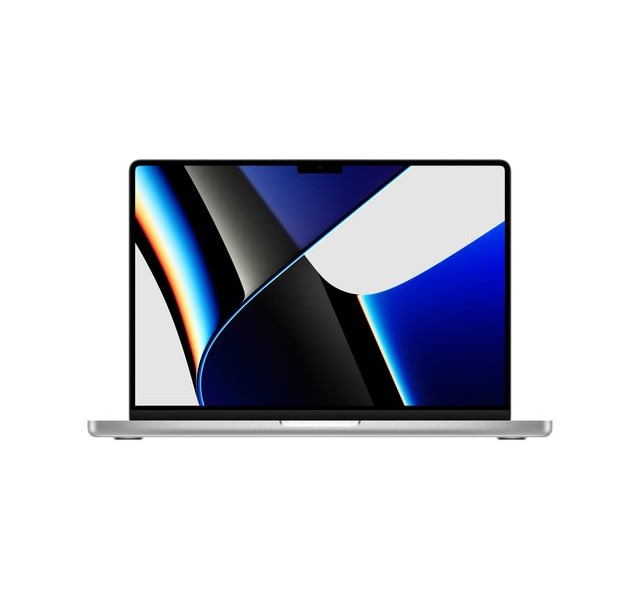
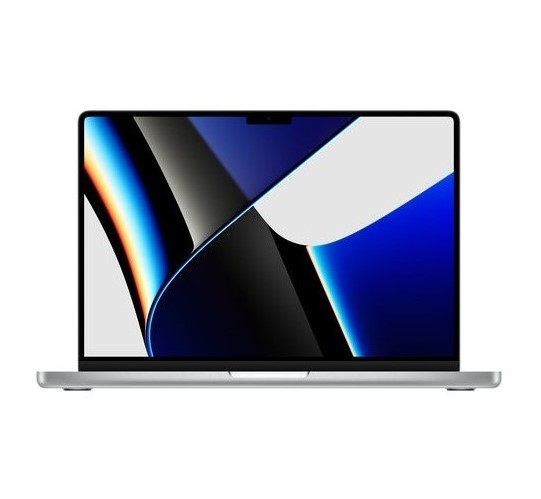
Entrega Final

Changed region(s): [[0.0591, 0.2104, 0.9464, 0.7816], [0.6211, 0.4509, 0.6802, 0.481], [0.5028, 0.4509, 0.5323, 0.481]]

diff --git a/pages/tienda.html b/pages/tienda.html
@@ -13,6 +13,7 @@
     <!-- Favicon -->
     <link rel="shortcut icon" href="../img/logotech.png" type="image/x-icon">
     <!-- Css -->
+    <link rel="stylesheet" href="https://cdnjs.cloudflare.com/ajax/libs/animate.css/4.1.1/animate.min.css"/>
     <link href="https://cdn.jsdelivr.net/npm/bootstrap@5.0.2/dist/css/bootstrap.min.css" rel="stylesheet" integrity="sha384-EVSTQN3/azprG1Anm3QDgpJLIm9Nao0Yz1ztcQTwFspd3yD65VohhpuuCOmLASjC" crossorigin="anonymous">
     <link rel="stylesheet" href="../css/style.css">
     <link rel="stylesheet" type="text/css" href="https://cdn.jsdelivr.net/npm/toastify-js/src/toastify.min.css">
@@ -25,7 +26,7 @@
 
     <div class="contenedorGeneral" id="home">
         <header class="header">
-            <div class="logoHeader">
+            <div class="logoHeader animate__animated animate__backInDown">
                 <a href="../index.html"><img src="../img/logosolo.png" alt="Logo de la pagina"></a>
             </div>
 
@@ -62,7 +63,7 @@
                 <label for="check" class="checkbtn">
                     <i class="menuIcon"><img src="../img/menu(3).png" alt="Menu"></i>
                 </label>
-                <ul>
+                <ul class="animate__animated animate__backInDown">
                     <li><a href="./nosotros.html">Sobre nosotros</a></li>
                     <li><a href="./tienda.html" id="inpage">Tienda</a></li>
                     <li><a href="../index.html#top">TOP</a></li>
@@ -78,13 +79,13 @@
             <h1 class="title">¡NUESTRO CATÁLOGO CERCA DE TÍ!<i class="fa-solid fa-cart-shopping carrito-tienda"></i></h1>
             <!-- <h2 class="h2Tienda">¡NUESTRO CATÁLOGO CERCA DE TU ALCANCE!</h2> -->
             <h2 class="h2Tienda">¿Empezamos?</h2>
-            <div class="buy" id="buy">
+            <div class="buy animate__animated animate__slideInRight" id="buy">
 
                 
                 <div class="item1" id="item">
                     <i class="fa-regular fa-heart"></i>
                     <i class="fa-regular fa-bookmark"></i>                    <i class="fa-solid fa-arrow-up-from-bracket"></i><br>
-                    <img src="../img/iph14.png" alt="" width="400">
+                    <img src="../img/iph14.png" alt="" width="300">
                     <h2 class="prodTitle">Iphone 14 Pro Max</h2>
                     <p class="precio"><b>$1499,99</b></p>
                     <a href="#" class="boton agregar-carrito" data-id="1">AGREGAR</a><br><br>
@@ -94,7 +95,7 @@
                 <div class="item2" id="item">
                     <i class="fa-regular fa-heart"></i>
                     <i class="fa-regular fa-bookmark"></i>                    <i class="fa-solid fa-arrow-up-from-bracket"></i><br>
-                    <img src="../img/monitor.webp" alt="" width="290">
+                    <img src="../img/monitor.webp" alt="" width="240">
                     <h2 class="prodTitle">Monitor Benq</h2>
                     <p class="precio"><b>$1999,99</b></p>
                     <a href="#" class="boton agregar-carrito" data-id="2">AGREGAR</a><br><br>
@@ -104,7 +105,7 @@
                 <div class="item3" id="item">
                     <i class="fa-regular fa-heart"></i>
                     <i class="fa-regular fa-bookmark"></i>                    <i class="fa-solid fa-arrow-up-from-bracket"></i><br>
-                    <img src="../img/airpods.webp" alt="" width="375">
+                    <img src="../img/airpods.webp" alt="" width="300">
                     <h2 class="prodTitle">Airpods</h2>
                     <p class="precio"><b>$99,99</b></p>
                     <a class="boton agregar-carrito" data-id="3" href="#" data-id="3">AGREGAR</a><br><br>
@@ -114,7 +115,7 @@
                 <div class="item4" id="item">
                     <i class="fa-regular fa-heart"></i>
                     <i class="fa-regular fa-bookmark"></i>                    <i class="fa-solid fa-arrow-up-from-bracket"></i><br>
-                    <img src="../img/macbookpro.jpg" alt="" width="400">
+                    <img src="../img/macbookpro.jpg" alt="" width="320">
                     <h2 class="prodTitle">MacBook Pro 1tb</h2>
                     <p class="precio"><b>$2399,99</b></p>
                     <a class="boton agregar-carrito" data-id="4" href="#" data-id="4">AGREGAR</a><br><br>
@@ -124,7 +125,7 @@
                 <div class="item5" id="item">
                     <i class="fa-regular fa-heart"></i>
                     <i class="fa-regular fa-bookmark"></i>                    <i class="fa-solid fa-arrow-up-from-bracket"></i><br>
-                    <img src="../img/sony.png" alt="" width="290">
+                    <img src="../img/sony.png" alt="">
                     <h2 class="prodTitle">Monitor Sony Programmer</h2>
                     <p class="precio"><b>$1899,99</b></p>
                     <a class="boton agregar-carrito" data-id="5" href="#" data-id="5">AGREGAR</a><br><br>
@@ -134,7 +135,7 @@
                 <div class="item6" id="item">
                     <i class="fa-regular fa-heart"></i>
                     <i class="fa-regular fa-bookmark"></i>                    <i class="fa-solid fa-arrow-up-from-bracket"></i><br>
-                    <img src="../img/macbook.jpg" alt="" width="375">
+                    <img src="../img/macbook.jpg" alt="" width="320">
                     <h2 class="prodTitle">MacBook Pro 1tb 16''</h2>
                     <p class="precio"><b>$2599,99</b></p>
                     <a class="boton agregar-carrito" data-id="6" href="#" data-id="6">AGREGAR</a><br><br>
@@ -144,8 +145,8 @@
                 <div class="item7" id="item">
                     <i class="fa-regular fa-heart"></i>
                     <i class="fa-regular fa-bookmark"></i>                    <i class="fa-solid fa-arrow-up-from-bracket"></i><br>
-                    <img src="../img//silla2.jpg" alt="" width="320">
-                    <h2 class="prodTitle">Silla Gamer Blue</h2>
+                    <img src="../img//silla2.jpg" alt="" width="228">
+                    <h2 class="prodTitle">Silla Gamer limit Edition Tech</h2>
                     <p class="precio"><b>$399,99</b></p>
                     <a class="boton agregar-carrito" data-id="7" href="#" data-id="7">AGREGAR</a><br><br>
                     <a class="oferta">OFERTA!</a>
@@ -154,8 +155,8 @@
                 <div class="item8" id="item">
                     <i class="fa-regular fa-heart"></i>
                     <i class="fa-regular fa-bookmark"></i>                    <i class="fa-solid fa-arrow-up-from-bracket"></i><br>
-                    <img src="../img/silla.jpg" alt="" width="305">
-                    <h2 class="prodTitle">Silla Gamer Leds</h2>
+                    <img src="../img/silla.jpg" alt="" width="220">
+                    <h2 class="prodTitle">Silla Gamer Leds triTechnology</h2>
                     <p class="precio"><b>$499,99</b></p>
                     <a class="boton agregar-carrito" data-id="8" href="#" data-id="8">AGREGAR</a><br><br>
                     <a class="oferta">OFERTA!</a>
@@ -164,8 +165,8 @@
                 <div class="item9" id="item">
                     <i class="fa-regular fa-heart"></i>
                     <i class="fa-regular fa-bookmark"></i>                    <i class="fa-solid fa-arrow-up-from-bracket"></i><br>
-                    <img src="../img/silla3.jpg" alt="" width="310">
-                    <h2 class="prodTitle">Silla Gamer U.Edition</h2>
+                    <img src="../img/silla3.jpg" alt="" width="220">
+                    <h2 class="prodTitle">Silla Gamer UltraEdition Black</h2>
                     <p class="precio"><b>$699,99</b></p>
                     <a class="boton agregar-carrito" data-id="9" href="#" data-id="9">AGREGAR</a><br><br>
                     <a class="oferta">OFERTA!</a>
@@ -174,8 +175,8 @@
                 <div class="item9" id="item">
                     <i class="fa-regular fa-heart"></i>
                     <i class="fa-regular fa-bookmark"></i>                    <i class="fa-solid fa-arrow-up-from-bracket"></i><br>
-                    <img src="../img/ps5_1.jpg" alt="" width="380">
-                    <h2 class="prodTitle">PlayStation 5 &copy;</h2>
+                    <img src="../img/ps5_1.jpg" alt="" width="270">
+                    <h2 class="prodTitle">Gamer PlayStation&copy; 5 Joystick</h2>
                     <p class="precio"><b>$999,99</b></p>
                     <a class="boton agregar-carrito" data-id="10" href="#" data-id="10">AGREGAR</a><br><br>
                     <a class="oferta">OFERTA!</a>
@@ -184,8 +185,8 @@
                 <div class="item9" id="item">
                     <i class="fa-regular fa-heart"></i>
                     <i class="fa-regular fa-bookmark"></i>                    <i class="fa-solid fa-arrow-up-from-bracket"></i><br>
-                    <img src="../img/switch.png" alt="" width="310">
-                    <h2 class="prodTitle">Nintendo Switch ™</h2>
+                    <img src="../img/switch.png" alt="" width="235">
+                    <h2 class="prodTitle">Nintendo Switch Black ™ Port </h2>
                     <p class="precio"><b>$499,99</b></p>
                     <a class="boton agregar-carrito" data-id="11" href="#" data-id="11">AGREGAR</a><br><br>
                     <a class="oferta">OFERTA!</a>
@@ -194,16 +195,15 @@
                 <div class="item9" id="item">
                     <i class="fa-regular fa-heart"></i>
                     <i class="fa-regular fa-bookmark"></i>                    <i class="fa-solid fa-arrow-up-from-bracket"></i><br>
-                    <img src="../img/xbox1.webp" alt="" width="330">
-                    <h2 class="prodTitle">XBOX'S</h2>
+                    <img src="../img/xbox1.webp" alt="" width="250">
+                    <h2 class="prodTitle">XBOX'S & Joystick Console Limited</h2>
                     <p class="precio"><b>$799,99</b></p>
                     <a class="boton agregar-carrito" data-id="12" href="#" data-id="12">AGREGAR</a><br><br>
                     <a class="oferta">OFERTA!</a>
                 </div>
-
-                <p class="h2Tienda">Una vez finalizada la compra y acreditado tu pago, te estará llegando un mail con un
-                    enlace de seguimiento. <i class="fa-solid fa-box-open"></i></p>
             </div>
+            <p class="h2Tienda">Una vez finalizada la compra y acreditado tu pago, te estará llegando un mail con un
+                enlace de seguimiento. <i class="fa-solid fa-box-open"></i></p>
             <div class="buttom-cargar">
                 <a href="#" class="botonTienda bottom-tienda">MÁS PRODUCTOS</a>
                 <p>.</p>

diff --git a/pages/contacto.html b/pages/contacto.html
@@ -12,6 +12,7 @@
     <link rel="shortcut icon" href="../img/logotech.png" type="image/x-icon">
     <link href="https://cdn.jsdelivr.net/npm/bootstrap@5.0.2/dist/css/bootstrap.min.css" rel="stylesheet" integrity="sha384-EVSTQN3/azprG1Anm3QDgpJLIm9Nao0Yz1ztcQTwFspd3yD65VohhpuuCOmLASjC" crossorigin="anonymous">
     <!-- Css -->
+    <link rel="stylesheet" href="https://cdnjs.cloudflare.com/ajax/libs/animate.css/4.1.1/animate.min.css"/>
     <link rel="stylesheet" href="../css/style.css">
     <title>SerTechnology | Sobre nosotros</title>
 </head>
@@ -19,7 +20,7 @@
     <!-- Encabezado -->
     <div class="contenedorGeneral" id="home">
         <header class="header">
-            <div class="logoHeader">
+            <div class="logoHeader animate__animated animate__backInDown">
                 <a href="../index.html"><img src="../img/logosolo.png" alt="Logo de la pagina"></a>
             </div>
             <div>
@@ -34,7 +35,7 @@
                     <i class="menuIcon"><img src="../img/menu(3).png" alt="Menu"></i>
                 </label>
     
-                <ul>
+                <ul class="animate__animated animate__backInDown">
                     <li><a href="./nosotros.html">Sobre nosotros</a></li>
                     <li><a href="./tienda.html" id="inpage">Tienda</a></li>
                     <li><a href="../index.html#serv">TOP</a></li>
@@ -46,29 +47,8 @@
     <!-- Contenido -->
     <main class="contact-us">
         <a href="#" class="btn-wsp" target="_blank"><i class="fa-brands fa-whatsapp"></i></a>
-        <h1 class="title">Contáctanos<i class="fas fa-envelope-open-text"></i></h1>
-        <!-- <div class="content">    
-            <div>
-                <div class="contact-form">
-                    <form action="">
-                        <p>
-                            <input type="text" placeholder="Nombre" name="fullname">
-                        </p>
-                        <p>
-                            <input type="email" placeholder="Email" name="email">
-                        </p>
-                        <p>
-                            <input type="tel" placeholder="Celular" name="phone">
-                        </p>
-                        <p class="block">
-                            <textarea name="message" placeholder="¡Escribenos un mensaje!" rows="3"></textarea>
-                        </p>
-
-                            <a href="#" class="buttom-contact">Enviar</a>
-
-                    </form>
-                </div> -->
-                <div class="container">
+        <h1 class="title animate__animated animate__fadeIn">Contáctanos<i class="fas fa-envelope-open-text"></i></h1>
+                <div class="container animate__animated animate__slideInLeft">
                     <form class="row g-3 needs-validation" novalidate>
                         <div class="col-md-4">
                             <label for="validationCustom01" class="form-label">Nombre</label>
@@ -131,8 +111,8 @@
                         <li><i class="fas fa-phone"></i> (11) 24068870</li>
                         <li><i class="fas fa-envelope-open-text"></i> SerTechnology@E-commerce.com</li>
                     </ul>
-                    <p>¡No dudes en preguntarnos!</p>
-                    <p>Estaremos en línea</p>
+                    <p>¡No dudes en consultarnos!</p>
+                    <p>Un asesor atenderá tu solicitud.</p>
                 </div>
             </div>
             <iframe src="https://www.google.com/maps/embed?pb=!1m18!1m12!1m3!1d105073.26483389553!2d-58.50333874112887!3d-34.61580373594946!2m3!1f0!2f0!3f0!3m2!1i1024!2i768!4f13.1!3m3!1m2!1s0x95bcca3b4ef90cbd%3A0xa0b3812e88e88e87!2sBuenos%20Aires%2C%20CABA!5e0!3m2!1ses-419!2sar!4v1662744368186!5m2!1ses-419!2sar" width="600" height="450" style="border:0;" allowfullscreen="" loading="lazy" referrerpolicy="no-referrer-when-downgrade"></iframe>

diff --git a/index.html b/index.html
@@ -9,6 +9,7 @@
     <!-- font awesome -->
     <script src="https://kit.fontawesome.com/3756f86c62.js" crossorigin="anonymous"></script>
     <!-- Favicon -->
+    <link rel="stylesheet" href="https://cdnjs.cloudflare.com/ajax/libs/animate.css/4.1.1/animate.min.css"/>
     <link rel="shortcut icon" href="./img/logotech.png" type="image/x-icon">
     <!-- Css -->
     <link rel="stylesheet" href="./css/style.css">
@@ -18,7 +19,7 @@
     <!-- Encabezado -->
     <div class="contenedorGeneral" id="home">
     <header class="header">
-        <div class="logoHeader">
+        <div class="logoHeader animate__animated animate__backInDown">
             <a href="index.html"><img src="./img/logosolo.png" alt="Logo de la pagina" width="80"></a>
         </div>
         <div>
@@ -34,7 +35,7 @@
                 <i class="menuIcon"><img src="./img/menu(3).png" alt="Menu"></i>
             </label>
 
-            <ul>
+            <ul class="animate__animated animate__backInDown">
                 <li><a href="./pages/nosotros.html">Sobre nosotros</a></li>
                 <li><a href="./pages/tienda.html">Tienda</a></li>
                 <li><a href="#top">TOP</a></li>
@@ -45,11 +46,11 @@
     </header>
 
     <!-- Contenido -->
-    <main>
+    <main> 
         <a href="#" class="btn-wsp" target="_blank"><i class="fa-brands fa-whatsapp"></i></a>
         <section class="primeraSeccion wrap">
             <div class="wrap-texto">
-                <img src="./img/logotech.png" alt="" class="img-mainfo">
+                <img src="./img/logotech.png" alt="" class="img-mainfo animate__animated animate__backInDown">
                 <h2 class="textJs"><span class="autoType"></span>
                     <span class="typed-cursor typed-cursor--blink" aria-hidden="true"></span>
                 </h2>
@@ -68,7 +69,7 @@
                 <a href="./pages/nosotros.html" class="boton bottomAbout">Conocer más</a>
             </div>
             <div>
-                <img src="./img/check.png" alt="Imagen de SerTechnology" class="imgAbout">
+                <img src="./img/check.png" alt="Imagen de SerTechnology" class="imgAbout animate__animated animate__backInRight">
             </div>
         </section>
 

diff --git a/pages/nosotros.html b/pages/nosotros.html
@@ -11,6 +11,7 @@
     <!-- Favicon -->
     <link rel="shortcut icon" href="../img/logotech.png" type="image/x-icon">
     <!-- Css -->
+    <link rel="stylesheet" href="https://cdnjs.cloudflare.com/ajax/libs/animate.css/4.1.1/animate.min.css"/>
     <link rel="stylesheet" href="../css/style.css">
     <title>SerTechnology | Sobre nosotros</title>
 </head>
@@ -18,7 +19,7 @@
     <!-- Encabezado -->
     <div class="contenedorGeneral" id="home">
         <header class="header">
-            <div class="logoHeader">
+            <div class="logoHeader animate__animated animate__backInDown">
                 <a href="../index.html"><img src="../img/logosolo.png" alt="Logo de la pagina"></a>
             </div>
             <div>
@@ -33,7 +34,7 @@
                     <i class="menuIcon"><img src="../img/menu(3).png" alt="Menu"></i>
                 </label>
     
-                <ul>
+                <ul class="animate__animated animate__backInDown">
                     <li><a href="nosotros.html">Sobre nosotros</a></li>
                     <li><a href="./tienda.html" id="inpage">Tienda</a></li>
                     <li><a href="../index.html#top">TOP</a></li>
@@ -45,10 +46,10 @@
     <!-- Contenido -->
     <main>
         <a href="#" class="btn-wsp" target="_blank"><i class="fa-brands fa-whatsapp"></i></a>
-        <h1 class="title">¿Más de nosotros?</h1>
+        <h1 class="title animate__animated animate__fadeIn">¿Más de nosotros?</h1>
         <h2 class="subtitle">Te contamos un poco de nuestro recorrido. <i class="fa-solid fa-shoe-prints"></i></h2>
         <section class="about">
-            <img src="../img/ofertas.png" alt="">
+            <img src="../img/ofertas.png" alt="" class="animate__animated animate__slideInLeft">
             <p>¡Hola! <br> Somos una marca especializada en E-commerce. <br>
                 Ofrecemos productos de alta gama al mejor precio del mercado. <br> 
                 Especializados en tecnología <br> ¡Con un solo clíck!

diff --git a/css/style.css b/css/style.css
@@ -22,12 +22,21 @@ body::-webkit-scrollbar-thumb {
 
 .subtitle {
   font-family: 'Montserrat', sans-serif;
+  border-radius: 50px;
   background-color: #2bc9c6;
   color: #ffffff;
   text-align: center;
   padding: 10px;
   margin-top: 20px;
   font-weight: 400; }
+
+  .buy img {
+    padding: 30px;
+  }
+
+  .buy .item5 img{
+    width: 37vh;
+  }
 
 /* Grid */
 .contenedorGeneral {
@@ -551,6 +560,7 @@ main {
   .formacion img {
     width: 440px;
     align-items: center;
+    border-radius: 30px;
     }
 
 
@@ -573,7 +583,6 @@ main {
   }
     .botonTienda a {
       color: #fff; }
-  
       .buton{
         text-align: center;
         padding: 20px;
@@ -585,6 +594,7 @@ main {
     box-shadow: 0 12px 16px rgba(0, 0, 0, 0.3);
     transition: all 0.5s; }
     .bottom-tienda:hover {
+      color: #fff;
       background-color: #267c7b;
       transform: translateY(-5px);
       box-shadow: 0 12px 16px rgba(0, 0, 0, 0.2); }
@@ -640,6 +650,9 @@ main {
 .buy .item1 , .item2 , .item3 , .item4 , .item5 ,.item6 ,.item7 ,.item8 ,.item9 p{
   font-size: 20;
   padding: 10px;
+  color: #000;
+}
+main .buy {
   color: #000;
 }
 
